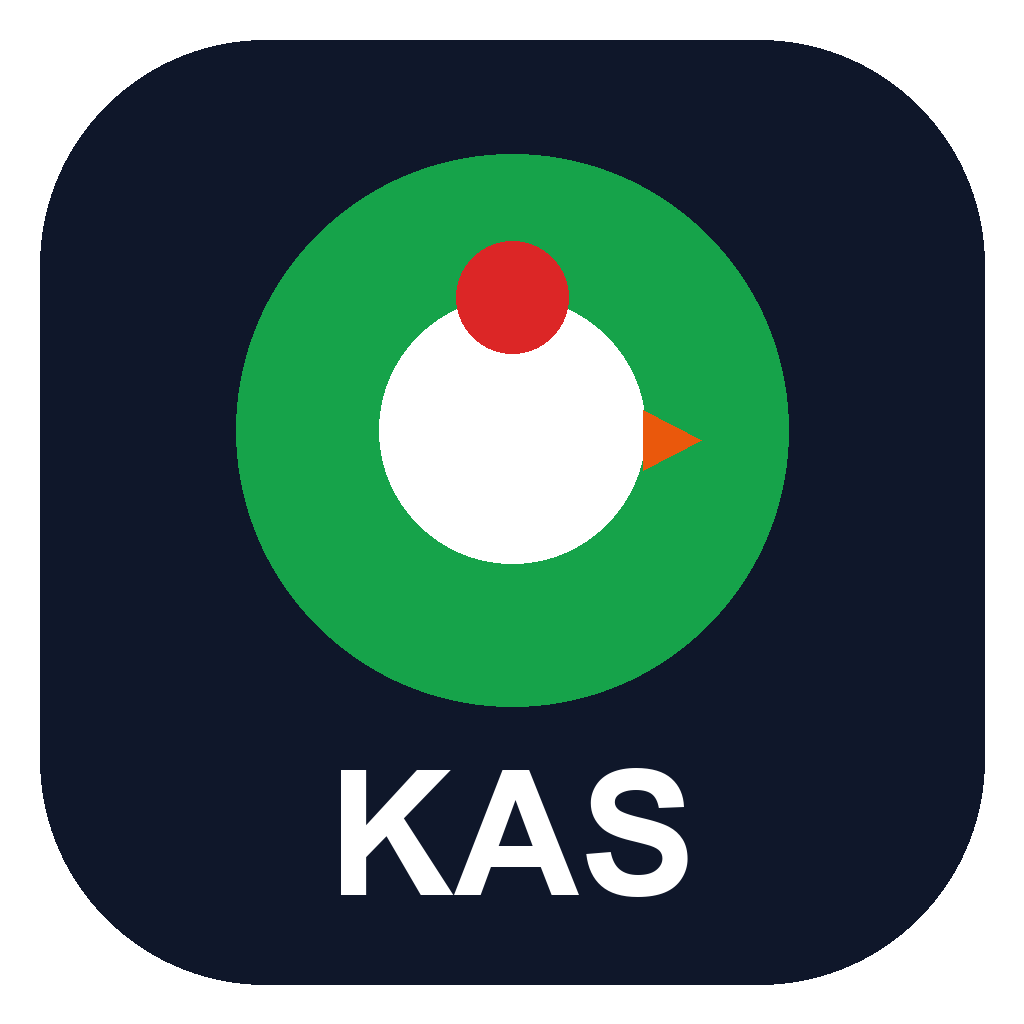
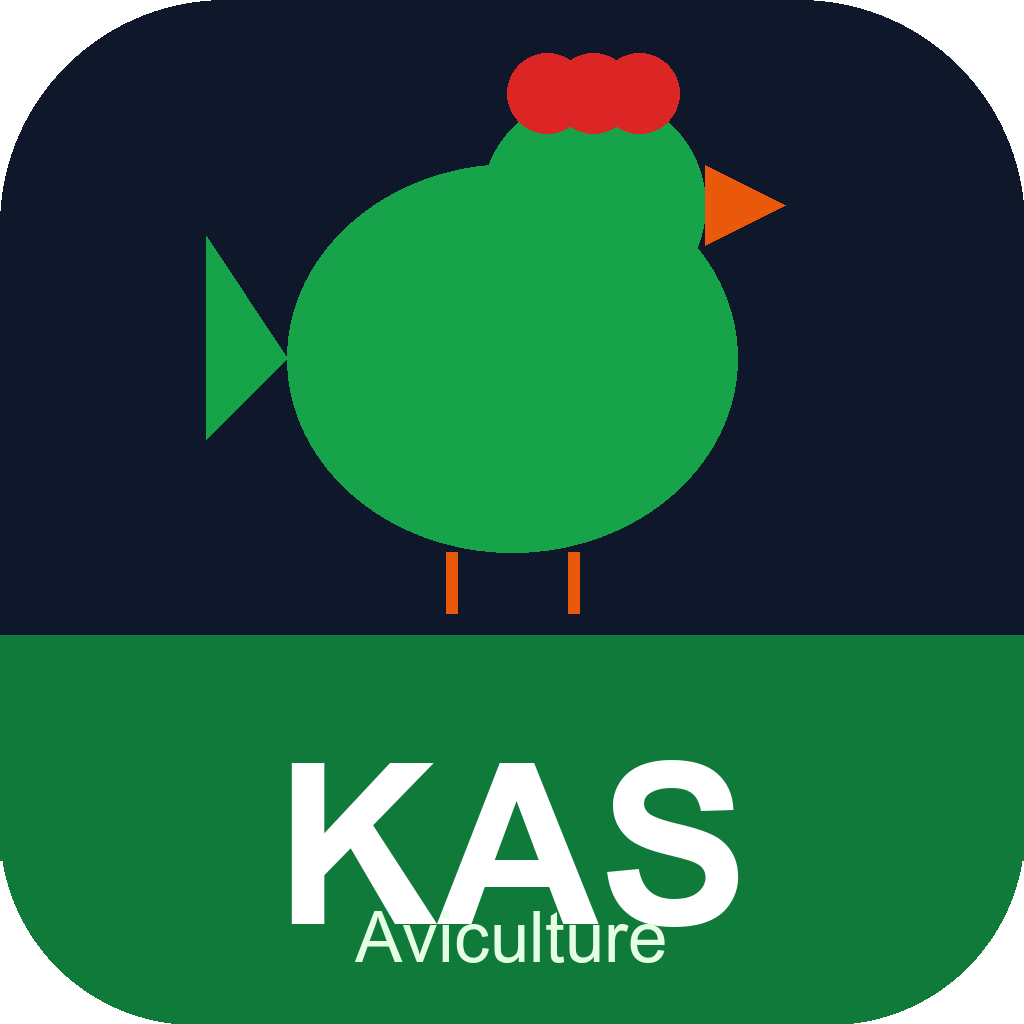
feat: redesign icone + splash screen KAS
icone:
- Coq geometrique moderne (corps + tete + crete + bec + queue + pattes)
- Bande verte en bas avec texte KAS + Aviculture
- Tout contenu dans les limites du carre arrondi navy
- 5 tailles Android regenerees

splash_screen:
- Logo: 2 anneaux lumineux verts concentriques (glow effect)
- Icone KAS avec bande verte integree au centre des anneaux
- Remplacement withOpacity -> withValues (API moderne Flutter)

diff --git a/lib/screens/splash/splash_screen.dart b/lib/screens/splash/splash_screen.dart
@@ -150,12 +150,12 @@ class _SplashScreenState extends State<SplashScreen>
               child: Container(width: 300, height: 300,
                   decoration: BoxDecoration(
                       shape: BoxShape.circle,
-                      color: kBlue.withOpacity(0.05)))),
+                      color: kBlue.withValues(alpha: 0.05)))),
           Positioned(bottom: -80, left: -80,
               child: Container(width: 250, height: 250,
                   decoration: BoxDecoration(
                       shape: BoxShape.circle,
-                      color: kGreen.withOpacity(0.05)))),
+                      color: kGreen.withValues(alpha: 0.05)))),
 
           // Contenu principal
           SafeArea(child: FadeTransition(
@@ -163,34 +163,77 @@ class _SplashScreenState extends State<SplashScreen>
             child: Column(children: [
               const Spacer(flex: 2),
 
-              // Logo
+              // Logo KAS
               AnimatedBuilder(
                 animation: Listenable.merge([_scaleAnim, _pulseAnim]),
                 builder: (_, child) => Transform.scale(
                   scale: _scaleAnim.value * _pulseAnim.value,
                   child: child,
                 ),
-                child: Container(
-                  width: 110, height: 110,
-                  decoration: BoxDecoration(
-                      gradient: LinearGradient(
-                          colors: [
-                            kBlue.withOpacity(0.3),
-                            kBlueLight.withOpacity(0.2)
-                          ],
-                          begin: Alignment.topLeft,
-                          end: Alignment.bottomRight),
-                      borderRadius: BorderRadius.circular(28),
-                      border: Border.all(color: Colors.white.withOpacity(0.2), width: 1.5),
-                      boxShadow: [
-                        BoxShadow(color: kBlue.withOpacity(0.4),
-                            blurRadius: 30, offset: const Offset(0, 10)),
-                        BoxShadow(color: Colors.white.withOpacity(0.05),
-                            blurRadius: 10, offset: const Offset(-5, -5)),
+                child: Stack(alignment: Alignment.center, children: [
+                  // Anneau lumineux extérieur
+                  Container(
+                    width: 140, height: 140,
+                    decoration: BoxDecoration(
+                      shape: BoxShape.circle,
+                      border: Border.all(
+                          color: kGreen.withValues(alpha: 0.3), width: 1.5),
+                      boxShadow: [BoxShadow(
+                          color: kGreen.withValues(alpha: 0.2),
+                          blurRadius: 24, spreadRadius: 4)],
+                    ),
+                  ),
+                  // Anneau intermédiaire
+                  Container(
+                    width: 118, height: 118,
+                    decoration: BoxDecoration(
+                      shape: BoxShape.circle,
+                      border: Border.all(
+                          color: kGreen.withValues(alpha: 0.5), width: 1),
+                    ),
+                  ),
+                  // Icône principale
+                  Container(
+                    width: 100, height: 100,
+                    decoration: BoxDecoration(
+                        borderRadius: BorderRadius.circular(24),
+                        color: const Color(0xFF0F172A),
+                        boxShadow: [
+                          BoxShadow(color: kGreen.withValues(alpha: 0.35),
+                              blurRadius: 20, offset: const Offset(0, 6)),
+                        ]),
+                    child: ClipRRect(
+                      borderRadius: BorderRadius.circular(24),
+                      child: Column(children: [
+                        // Zone coq (haut, navy)
+                        Expanded(
+                          flex: 62,
+                          child: Container(
+                            color: const Color(0xFF0F172A),
+                            child: const Center(
+                              child: Text('🐔',
+                                  style: TextStyle(fontSize: 42))),
+                          ),
+                        ),
+                        // Bande verte KAS (bas)
+                        Expanded(
+                          flex: 38,
+                          child: Container(
+                            color: const Color(0xFF107A3A),
+                            child: const Center(
+                              child: Text('KAS',
+                                  style: TextStyle(
+                                      color: Colors.white,
+                                      fontSize: 20,
+                                      fontWeight: FontWeight.w900,
+                                      letterSpacing: 2)),
+                            ),
+                          ),
+                        ),
                       ]),
-                  child: const Center(
-                      child: Text('🐔', style: TextStyle(fontSize: 56))),
-                ),
+                    ),
+                  ),
+                ]),
               ),
               const SizedBox(height: 28),
 
@@ -209,10 +252,10 @@ class _SplashScreenState extends State<SplashScreen>
                         padding: const EdgeInsets.symmetric(
                             horizontal: 16, vertical: 6),
                         decoration: BoxDecoration(
-                            color: Colors.white.withOpacity(0.1),
+                            color: Colors.white.withValues(alpha: 0.1),
                             borderRadius: BorderRadius.circular(20),
                             border: Border.all(
-                                color: Colors.white.withOpacity(0.2))),
+                                color: Colors.white.withValues(alpha: 0.2))),
                         child: const Row(mainAxisSize: MainAxisSize.min,
                             children: [
                               Text('🌍', style: TextStyle(fontSize: 14)),
@@ -271,7 +314,7 @@ class _SplashScreenState extends State<SplashScreen>
                         borderRadius: BorderRadius.circular(4),
                         child: LinearProgressIndicator(
                             value: _progressAnim.value,
-                            backgroundColor: Colors.white.withOpacity(0.1),
+                            backgroundColor: Colors.white.withValues(alpha: 0.1),
                             valueColor: AlwaysStoppedAnimation(
                                 Color.lerp(kBlue, kGreen,
                                     _progressAnim.value) ?? kBlue),
@@ -302,9 +345,9 @@ class _SplashScreenState extends State<SplashScreen>
   Widget _featureChip(String emoji, String label) => Container(
       padding: const EdgeInsets.symmetric(horizontal: 10, vertical: 5),
       decoration: BoxDecoration(
-          color: Colors.white.withOpacity(0.08),
+          color: Colors.white.withValues(alpha: 0.08),
           borderRadius: BorderRadius.circular(20),
-          border: Border.all(color: Colors.white.withOpacity(0.15))),
+          border: Border.all(color: Colors.white.withValues(alpha: 0.15))),
       child: Row(mainAxisSize: MainAxisSize.min, children: [
         Text(emoji, style: const TextStyle(fontSize: 12)),
         const SizedBox(width: 4),
@@ -330,7 +373,7 @@ class _ParticlesPainter extends CustomPainter {
       final radius = random.nextDouble() * 2 + 0.5;
       final opacity = (sin(progress * 2 * pi + i * 0.5) * 0.5 + 0.5) * 0.3;
 
-      paint.color = Colors.white.withOpacity(opacity);
+      paint.color = Colors.white.withValues(alpha: opacity);
       canvas.drawCircle(Offset(x, y), radius, paint);
     }
   }
